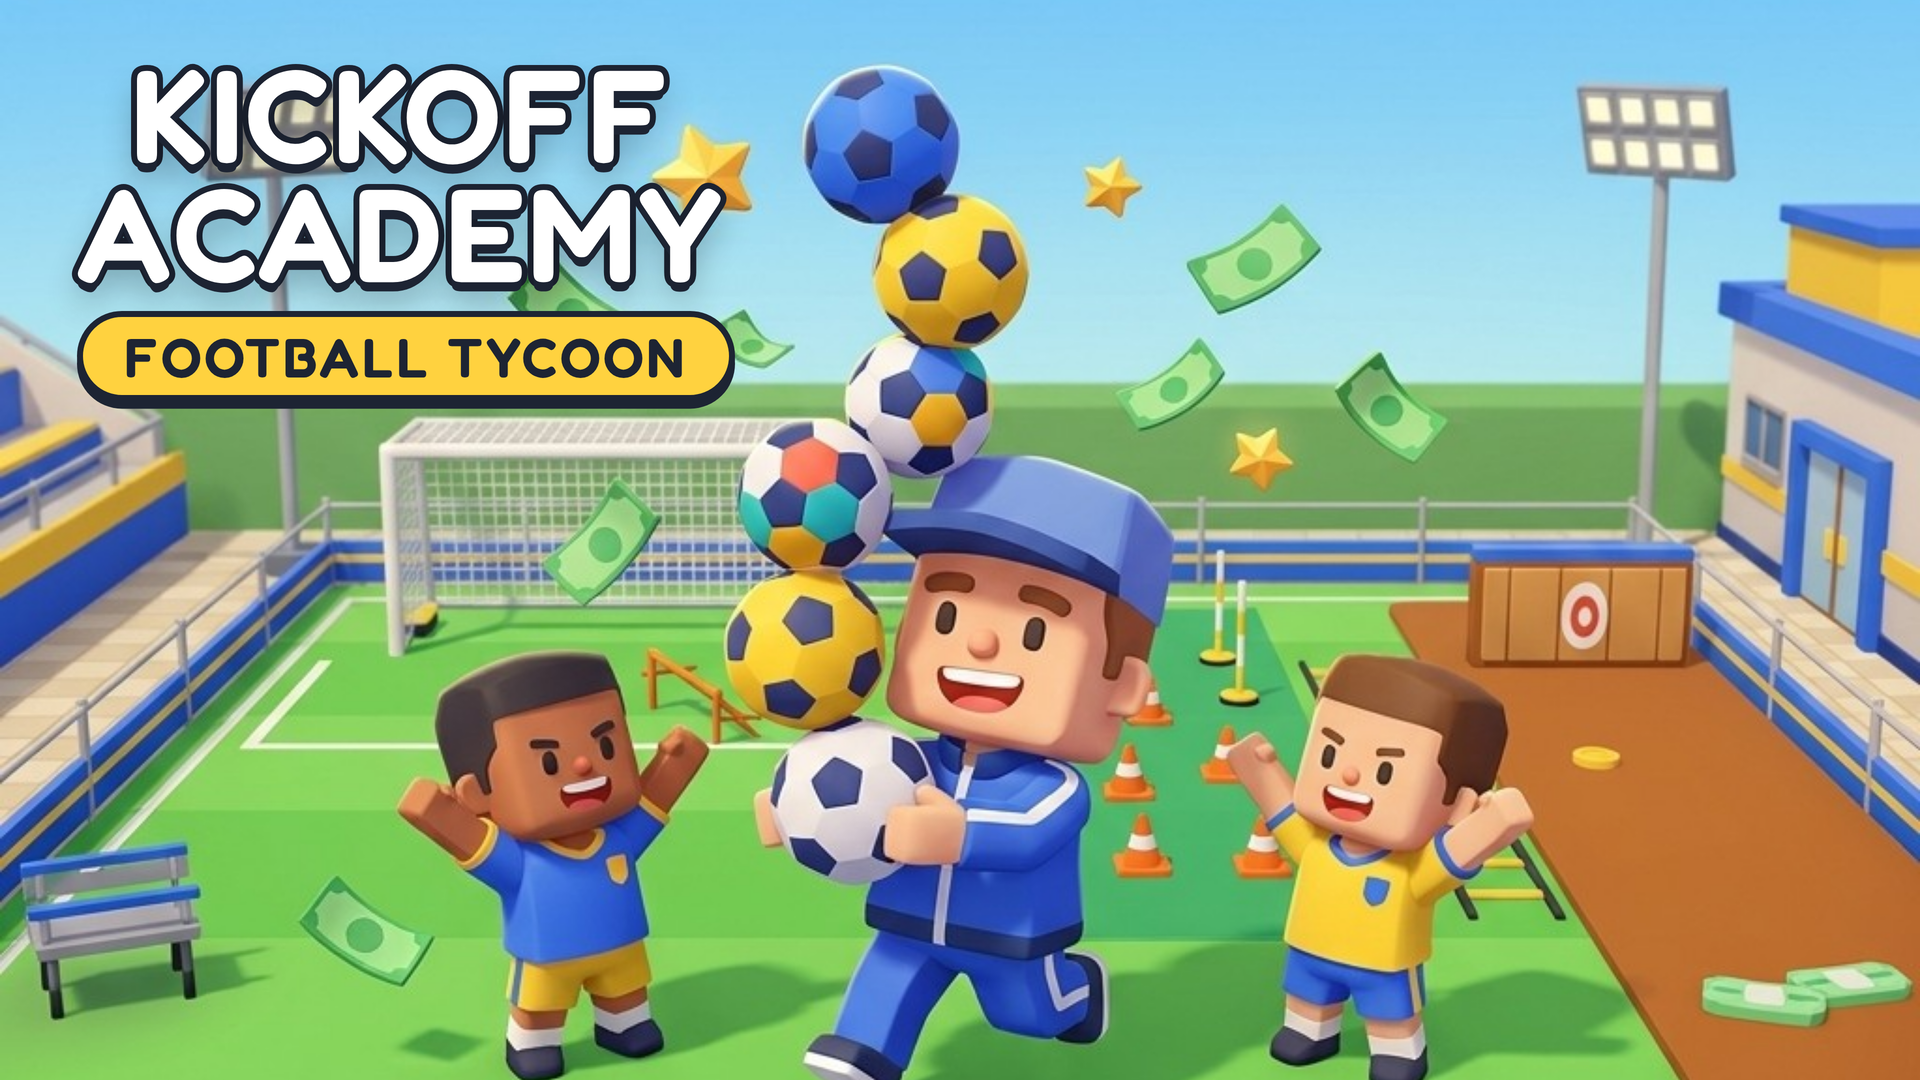
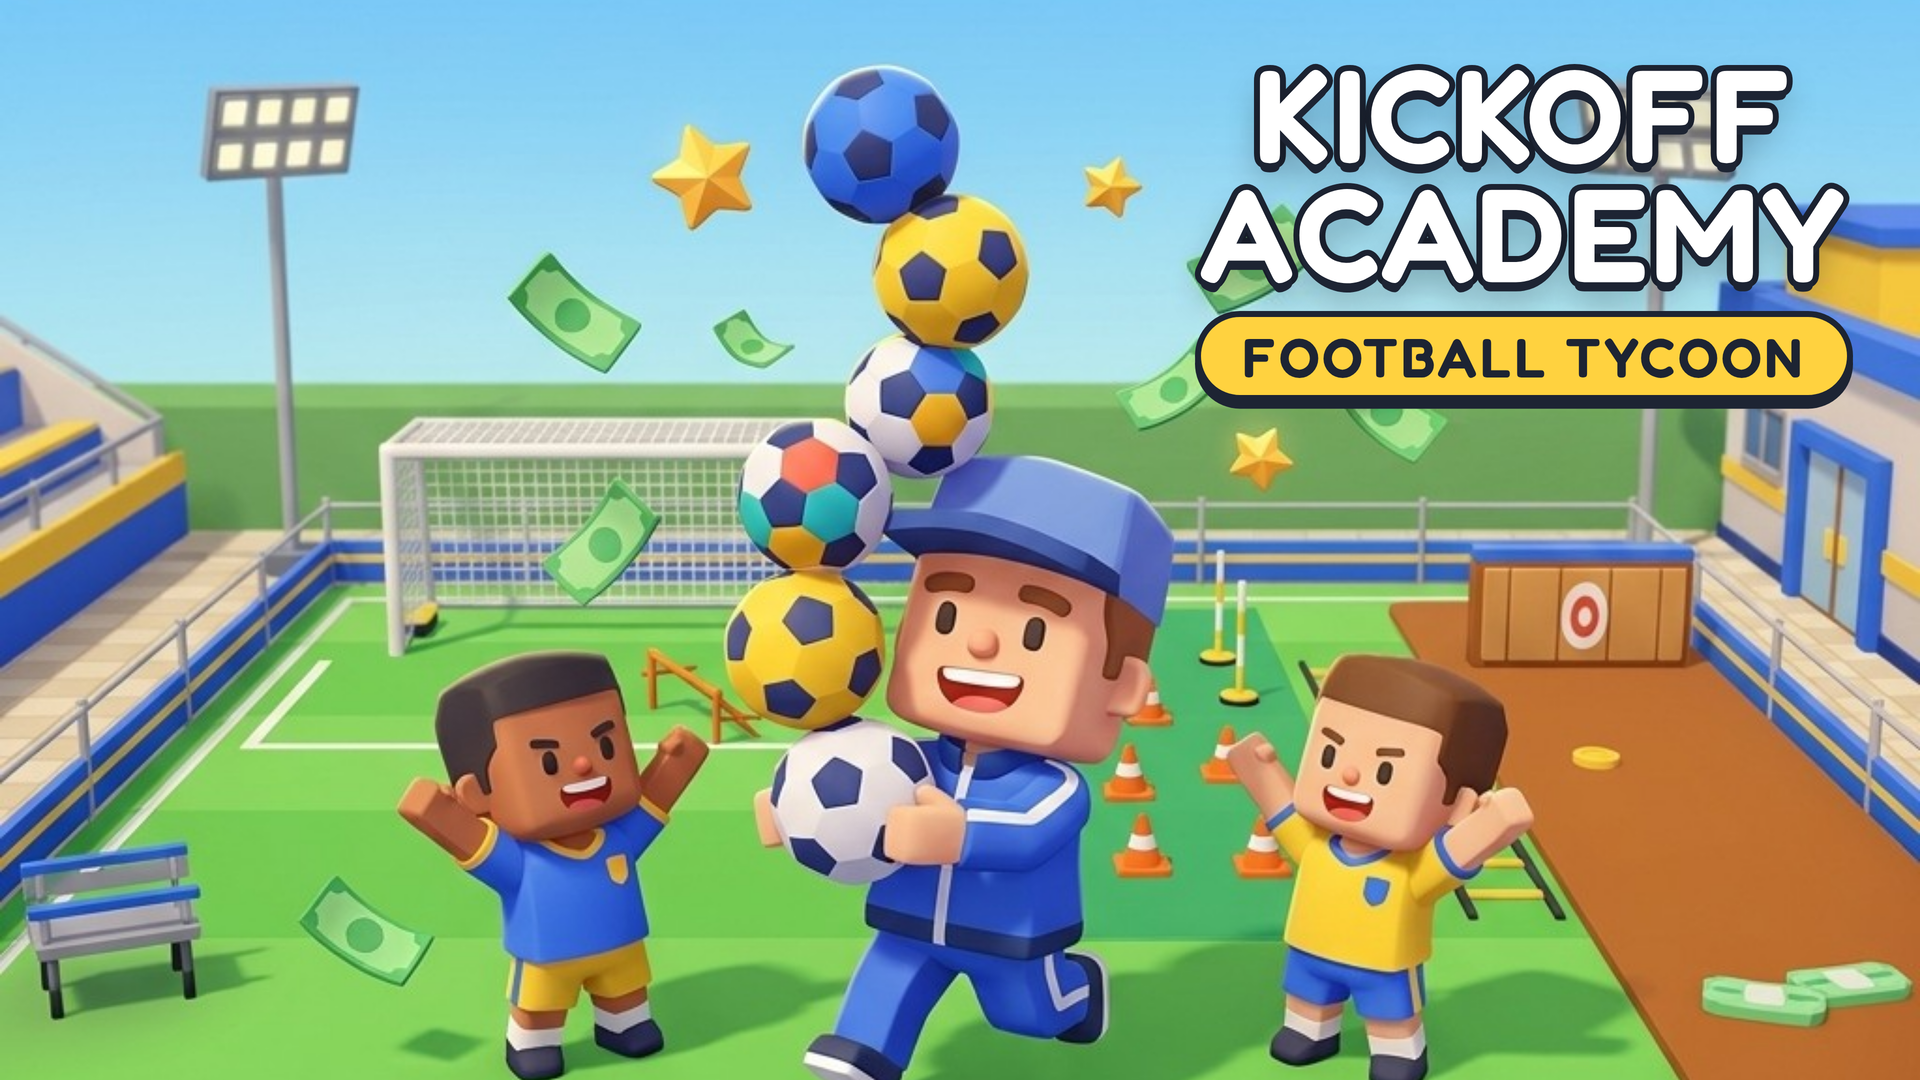
Landscape cover: title on the right (CrazyGames labels cover the top-left)
Claude-Session: https://claude.ai/code/session_01BFN3PjS38zPLMr6DxhYddQ

Changed region(s): [[0.625, 0.0611, 0.9688, 0.3972], [0.0312, 0.0611, 0.4062, 0.3972]]

diff --git a/tools/compose-cover.ts b/tools/compose-cover.ts
@@ -22,8 +22,8 @@ interface Layout {
 }
 
 const LAYOUTS: Layout[] = [
-  // landscape: a band through the middle; title in the sky over the left side
-  { name: 'cover-landscape-1920x1080', w: 1920, h: 1080, crop: { x: 0, y: 0.17, s: 1 }, title: 'left:4%;top:5%;font-size:44px;align-items:flex-start' },
+  // landscape: a band through the middle; title in the sky on the right (CrazyGames puts labels over the top-left)
+  { name: 'cover-landscape-1920x1080', w: 1920, h: 1080, crop: { x: 0, y: 0.17, s: 1 }, title: 'right:3.5%;top:5%;font-size:44px' },
   // portrait: a strip through the middle; title in the sky band at the top
   { name: 'cover-portrait-800x1200', w: 800, h: 1200, crop: { x: 0.1665, y: 0, s: 0.667 }, title: 'left:0;right:0;top:3.5%;font-size:25px' },
   { name: 'cover-square-800x800', w: 800, h: 800, crop: { x: 0, y: 0, s: 1 }, title: 'left:0;right:0;top:1.2%;font-size:19px' },
